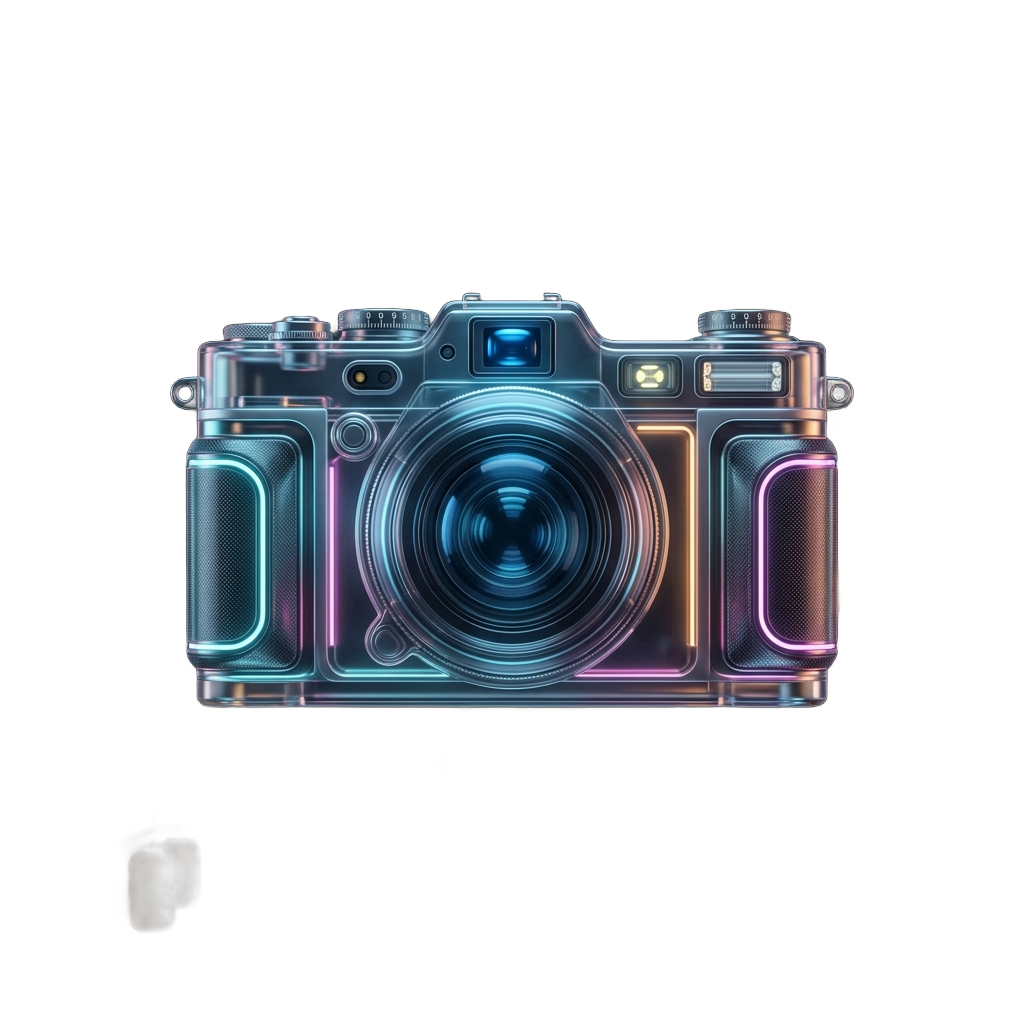
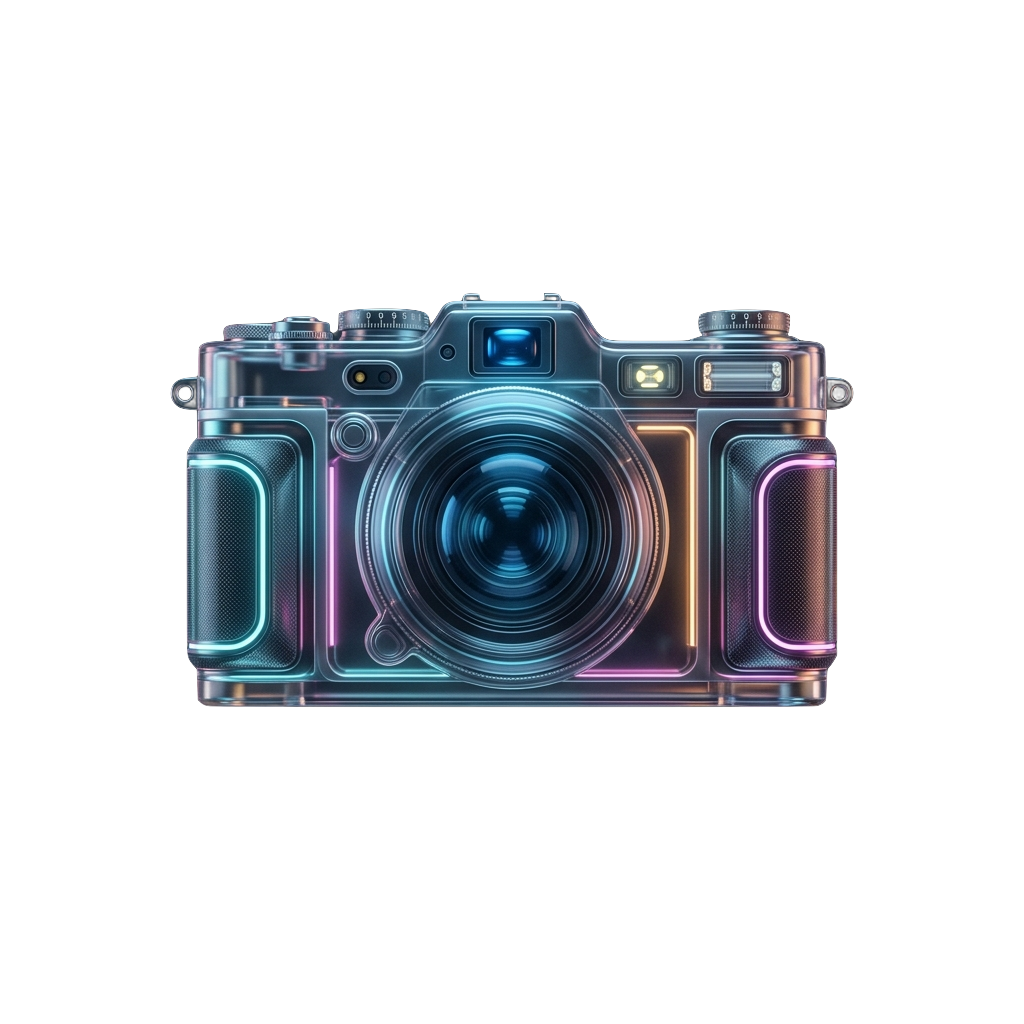
fix(usage): invalidate usageStatusProvider after narration consumes quota
After consumeUsage() succeeds, the usageStatusProvider FutureProvider
was never invalidated, so the settings screen showed stale remaining
count until the user left and re-entered. The narration pre-check read
the repository directly so it was always fresh, but the UI was not.

Added an onUsageConsumed callback to NarrationGenerationController and
wired it to ref.invalidate(usageStatusProvider) in the provider layer,
so both the settings count and any subsequent quota check reflect the
updated state immediately after each narration completes.

Changed region(s): [[0.125, 0.8125, 0.2188, 0.9062]]

diff --git a/frontend/lib/features/narration/presentation/controllers/narration_generation_controller.dart b/frontend/lib/features/narration/presentation/controllers/narration_generation_controller.dart
@@ -70,11 +70,13 @@ class NarrationGenerationController
   final CreateNarrationUseCase _createNarrationUseCase;
   final JourneyRepository _journeyRepository;
   final String? Function() _currentTripIdGetter;
+  final void Function() _onUsageConsumed;
 
   NarrationGenerationController(
     this._createNarrationUseCase,
     this._journeyRepository,
     this._currentTripIdGetter,
+    this._onUsageConsumed,
   ) : super(const NarrationGenerationState());
 
   /// Generates narration content for the given place and aspects.
@@ -97,6 +99,7 @@ class NarrationGenerationController
         language: language,
       );
 
+      _onUsageConsumed();
       await _autoSaveToJourney(place, aspects, content, language);
 
       state = NarrationGenerationState(

diff --git a/frontend/lib/features/narration/providers.dart b/frontend/lib/features/narration/providers.dart
@@ -64,6 +64,7 @@ final narrationGenerationControllerProvider =
         useCase,
         journeyRepository,
         () => ref.read(currentTripIdProvider),
+        () => ref.invalidate(usageStatusProvider),
       );
     });
 